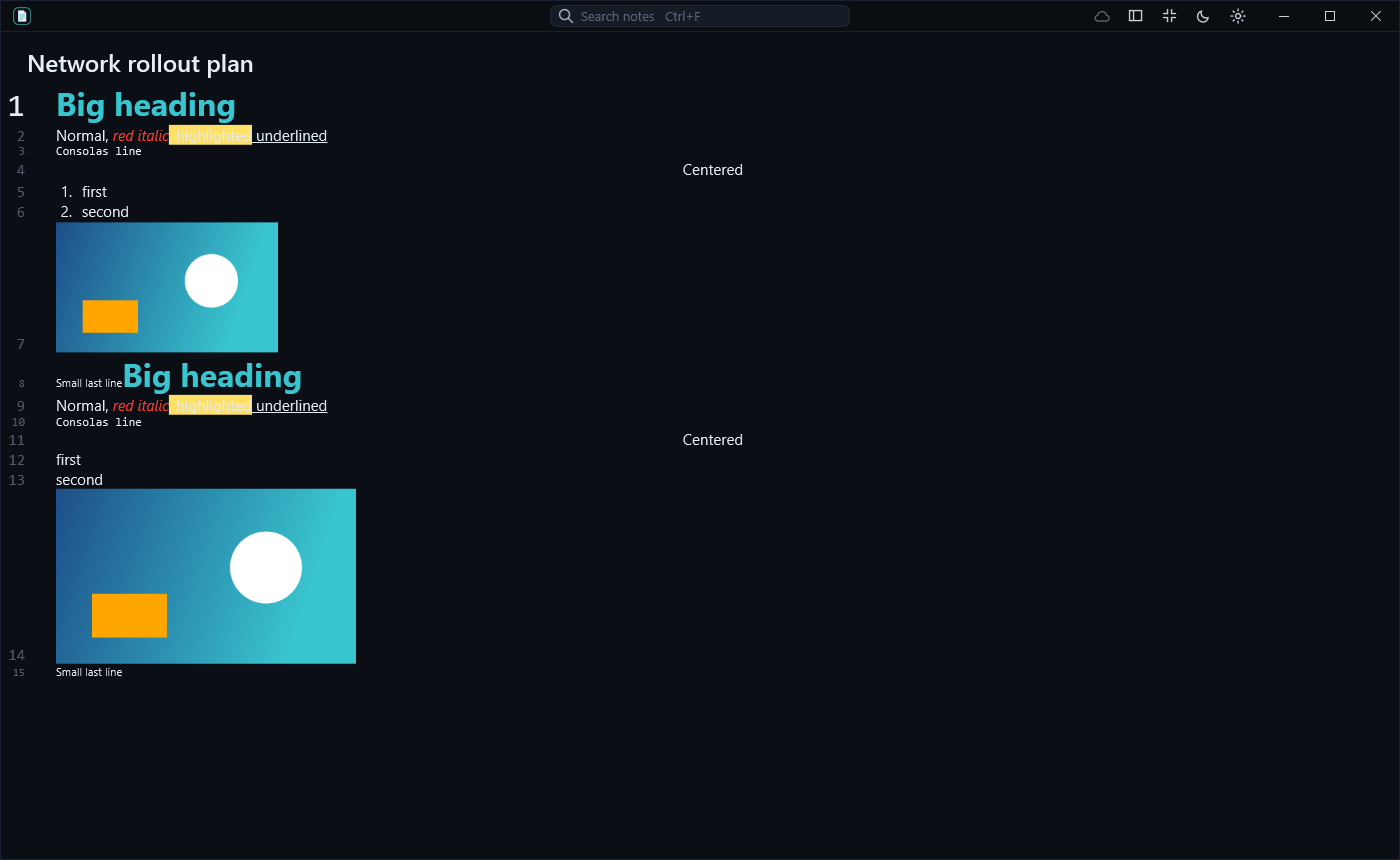
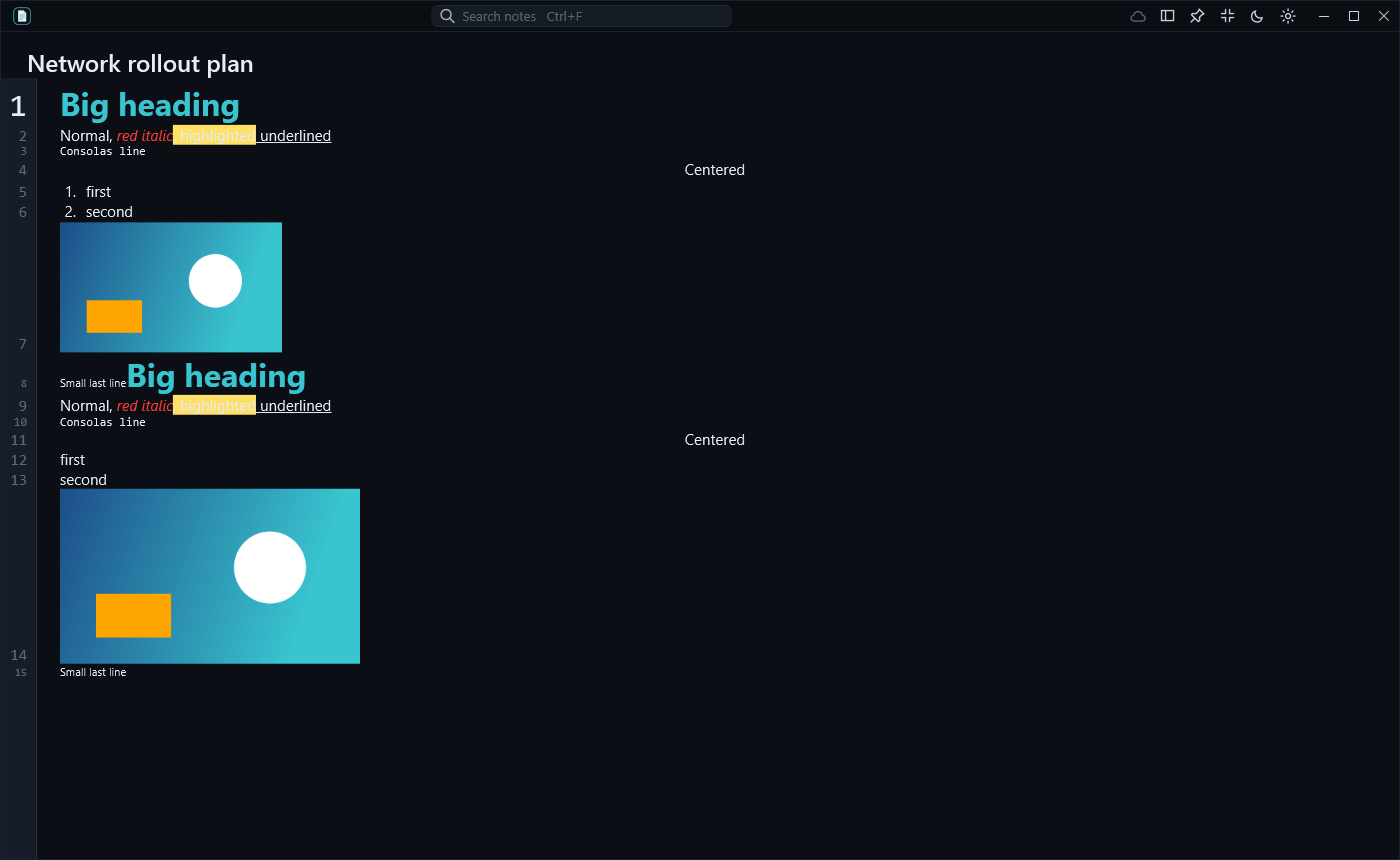
1.3.2: keep-on-top pin for writing mode; slimmer title bar buttons

diff --git a/Themes/Controls.xaml b/Themes/Controls.xaml
@@ -50,7 +50,7 @@
     </Style>
     <!-- a small icon-ish button in the title bar (sync, theme) -->
     <Style x:Key="TitleBarButton" TargetType="{x:Type Button}" BasedOn="{StaticResource CaptionButton}">
-        <Setter Property="Width" Value="40"/>
+        <Setter Property="Width" Value="34"/>
         <Setter Property="Height" Value="38"/>
         <Setter Property="Focusable" Value="False"/>
     </Style>

diff --git a/Views/MainWindow.cs b/Views/MainWindow.cs
@@ -16,7 +16,8 @@ public sealed class MainWindow : Window
     private readonly Button _syncButton;
     private readonly Path _focusGlyph;
     private readonly List<Button> _barButtons = [];
-    private readonly Button _side, _focus, _theme, _gear;
+    private readonly Button _side, _focus, _theme, _gear, _pin;
+    private readonly Path _pinGlyph;
     private Chrome.Bar _bar = null!;
     private Chrome.PlacementTracker? _placement;
     private bool? _shownFocus;
@@ -57,13 +58,16 @@ public sealed class MainWindow : Window
         _focusGlyph = new Path { Data = Geometry.Parse(FocusOn), Width = 17, Height = 17, StrokeThickness = 1.4, Stretch = Stretch.None, StrokeStartLineCap = PenLineCap.Round, StrokeEndLineCap = PenLineCap.Round };
         _focusGlyph.SetResourceReference(Shape.StrokeProperty, "TitleText");
         var focus = _focus = TitleButton(_focusGlyph, "Writing mode: just the page (F11)", View.ToggleFocus);
+        _pinGlyph = new Path { Data = Geometry.Parse("M9.6,1.6 L14.4,6.4 L12.6,7 L9.9,9.7 L10.1,12.9 L8.9,14.1 L1.9,7.1 L3.1,5.9 L6.3,6.1 L9,3.4 Z M5.4,10.6 L1.6,14.4"), Width = 17, Height = 17, StrokeThickness = 1.4, Stretch = Stretch.None, StrokeLineJoin = PenLineJoin.Round, StrokeStartLineCap = PenLineCap.Round, StrokeEndLineCap = PenLineCap.Round };
+        _pin = TitleButton(_pinGlyph, "Keep on top", TogglePin);
         var extras = new StackPanel { Orientation = Orientation.Horizontal, Margin = new Thickness(0, 0, 6, 0) };
         extras.Children.Add(_syncButton);
         extras.Children.Add(side);
+        extras.Children.Add(_pin);
         extras.Children.Add(focus);
         extras.Children.Add(theme);
         extras.Children.Add(gear);
-        _barButtons.AddRange([_syncButton, side, focus, theme, gear]);
+        _barButtons.AddRange([_syncButton, side, _pin, focus, theme, gear]);
 
         _bar = Chrome.Apply(this, "pxd Notepad", View, BrandIcon.Image, resizable: true, extras: extras, center: View.SearchBar);
         View.LayoutModeChanged += ApplyMode;
@@ -101,8 +105,8 @@ public sealed class MainWindow : Window
         var focus = View.FocusMode;
         var h = focus ? 30 : 38;
         _bar.SetHeight(h);
-        _bar.SetButtonWidth(focus ? 36 : 46);
-        foreach (var b in _barButtons) { b.Height = h; b.Width = focus ? 32 : 40; }
+        _bar.SetButtonWidth(focus ? 30 : 34);
+        foreach (var b in _barButtons) { b.Height = h; b.Width = focus ? 30 : 34; }
         View.SearchBar.Height = focus ? 22 : 28;
         _focusGlyph.Data = Geometry.Parse(focus ? FocusOff : FocusOn);
         // Smallest window: writing mode is just the page; normal mode keeps room for the notes list and the page.
@@ -119,6 +123,7 @@ public sealed class MainWindow : Window
         else
             _placement.SwitchTo(NormalSpot, afterMove: Mins);
         _shownFocus = focus;
+        ApplyPin();
         FitTitleBar();
     }
 
@@ -131,13 +136,13 @@ public sealed class MainWindow : Window
         var focus = View.FocusMode;
         var width = ActualWidth > 0 ? ActualWidth : Width;
         if (double.IsNaN(width) || width <= 0) return;
-        var btn = focus ? 32.0 : 40.0;
-        var caption = (focus ? 36.0 : 46.0) * 3;
+        var btn = focus ? 30.0 : 34.0;
+        var caption = (focus ? 30.0 : 34.0) * 3;
         double search = focus ? 300 : 420, roomy = focus ? 220 : 280, smallest = 96;
         var titleOn = !focus;
         var optional = new List<Button> { _theme, _gear, _side, _syncButton };   // first to go first
         var shown = new HashSet<Button>(optional);
-        double Need() => 12 + 18 + (titleOn ? 9 + 96 : 0) + 16 + search + 16 + (shown.Count + 1) * btn + 6 + caption + 4;
+        double Need() => 12 + 18 + (titleOn ? 9 + 96 : 0) + 16 + search + 16 + (shown.Count + 1 + (focus ? 1 : 0)) * btn + 6 + caption + 4;
 
         var avail = width - 2;
         if (Need() > avail) search = Math.Max(roomy, search - (Need() - avail));
@@ -157,6 +162,24 @@ public sealed class MainWindow : Window
         ((_focus.Parent as FrameworkElement)?.Parent as UIElement)?.InvalidateMeasure();
         View.SearchBar.InvalidateMeasure();
         View.CenterSearchPopup();
+    }
+
+    /// <summary>The pin: writing mode floats over other windows, like a sticky note (normal mode never does).</summary>
+    public void TogglePin()
+    {
+        _settings.PinOnTop = !_settings.PinOnTop;
+        _settings.Save();
+        ApplyPin();
+    }
+
+    private void ApplyPin()
+    {
+        var focus = View.FocusMode;
+        Topmost = focus && _settings.PinOnTop;
+        _pin.Visibility = focus ? Visibility.Visible : Visibility.Collapsed;
+        _pinGlyph.SetResourceReference(Shape.StrokeProperty, _settings.PinOnTop ? "Accent" : "TitleText");
+        _pinGlyph.Fill = null;
+        _pin.ToolTip = _settings.PinOnTop ? "Kept on top of other windows: click to let it go behind them" : "Keep on top of other windows (writing mode)";
     }
 
     private static Button TitleButton(UIElement content, string tip, Action click)

diff --git a/SelfTest.cs b/SelfTest.cs
@@ -426,6 +426,14 @@ public static class SelfTest
         Ok(pw.Left == 100 && pw.Width == 1200, "opens at normal mode's spot");
         pw.View.ToggleFocus();
         Ok(pw.Left == 1500 && pw.Top == 120 && pw.Width == 360 && pw.Height == 520 && pw.MinWidth == 300, $"writing mode goes to its own spot ({pw.Left},{pw.Top} {pw.Width}x{pw.Height})");
+        pw.TogglePin();
+        Ok(pw.Topmost && settings.PinOnTop, "the pin keeps writing mode on top");
+        pw.View.ToggleFocus();
+        Ok(!pw.Topmost, "normal mode is never kept on top");
+        pw.View.ToggleFocus();
+        Ok(pw.Topmost, "back in writing mode, it's on top again (the pin is remembered)");
+        pw.TogglePin();
+        Ok(!pw.Topmost && !settings.PinOnTop, "unpinning lets it go behind other windows");
         pw.View.ToggleFocus();
         Ok(pw.Left == 100 && pw.Top == 80 && pw.Width == 1200 && pw.Height == 800 && pw.MinWidth == 560, $"leaving it goes back to normal mode's spot ({pw.Left},{pw.Top} {pw.Width}x{pw.Height})");
         pw.Sync.Dispose();

diff --git a/Standard/Chrome.cs b/Standard/Chrome.cs
@@ -149,7 +149,7 @@ public static class Chrome
     {
         var path = new Path { Data = Geometry.Parse(glyph), Width = 10, Height = 10, StrokeThickness = 1, Stretch = Stretch.None, SnapsToDevicePixels = true };
         path.SetResourceReference(Shape.StrokeProperty, "TitleText");
-        var b = new Button { Content = path, Width = 46, Height = 38, ToolTip = tip, Focusable = false };
+        var b = new Button { Content = path, Width = 38, Height = 38, ToolTip = tip, Focusable = false };
         b.SetResourceReference(FrameworkElement.StyleProperty, close ? "CaptionCloseButton" : "CaptionButton");
         WindowChrome.SetIsHitTestVisibleInChrome(b, true);
         b.Click += (_, _) => click();

diff --git a/Data/AppSettings.cs b/Data/AppSettings.cs
@@ -28,6 +28,8 @@ public sealed class AppSettings
     public bool SidebarOpen { get; set; } = true;
     /// <summary>Writing only: no sidebar, toolbar or status line, slim title bar.</summary>
     public bool Focus { get; set; }
+    /// <summary>Writing mode stays on top of other windows (the pin in its title bar).</summary>
+    public bool PinOnTop { get; set; }
     public string? LastNote { get; set; }
     public string? LastCategory { get; set; }
     public List<string> Collapsed { get; set; } = ["*trash"];

diff --git a/README.md b/README.md
@@ -17,7 +17,8 @@ each line's size, a distraction-free writing mode, dark and light themes, and en
 - **Writing mode** (`F11`): everything but the page goes away and the title bar slims down. `Ctrl+\` hides just the
   notes list. In writing mode the window goes down to 300 × 150, a sticky note on the side of the screen (560 × 360
   otherwise); the title bar gives up its less-used buttons as it narrows. Writing mode and normal mode each remember
-  their own size, position and maximized state, so F11 jumps between your two layouts in one move.
+  their own size, position and maximized state, so F11 jumps between your two layouts in one move. The pin in
+  writing mode's title bar keeps it on top of other windows, like a sticky note.
 - **Date each day's entries** (per note, off until you turn it on: the calendar button on the toolbar, or right-click
   the note): for running logs. The first thing you write on a new day gets a line across with the day's date above it.
   Editing older text doesn't add one. Dates are searchable (`2026-11-15` or the written-out date).
